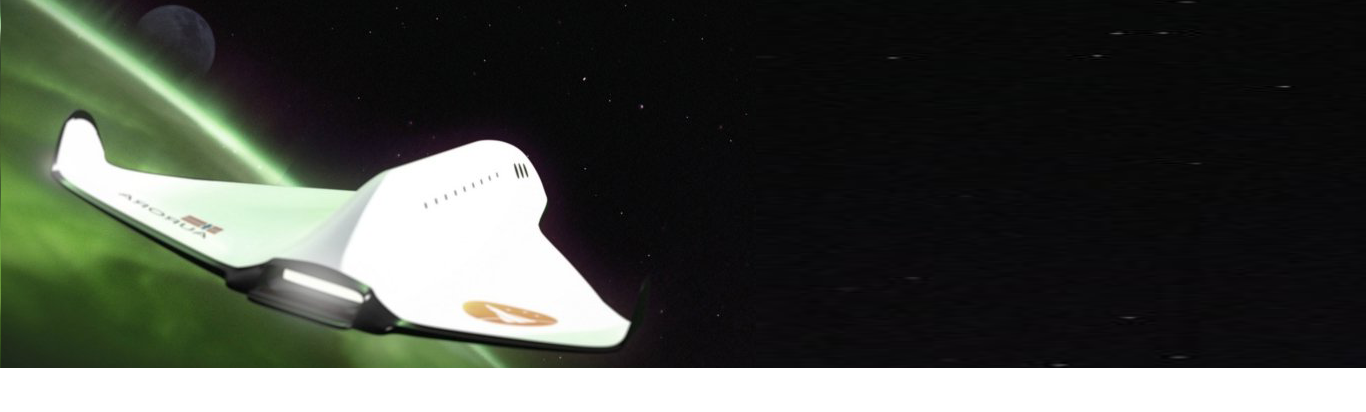
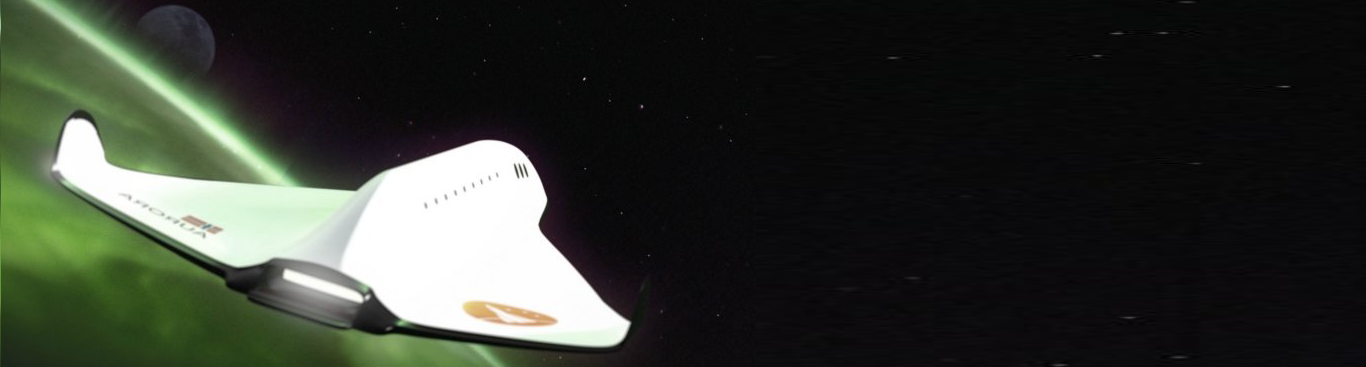
uploading new version of spaceship aurora image

Changed region(s): [[0.0, 0.0599, 1.0, 1.0]]

diff --git a/index.html b/index.html
@@ -135,9 +135,7 @@
 				</script>
 			</div>
 		</section>
-		
-		<div class="sectionTransition parallax-window" data-parallax="scroll" data-image-src="res/img/iss_config_2011.png"></div>
-		
+			
 		<section class="sectionContainer inviewTrigger generalInfo parallax-window" data-parallax="scroll" data-image-src="res/img/soyuz.jpg">
 			<div class="sectionAnchor" id="generellInfo"></div>
 			<main class="sectionContent">

diff --git a/res/css/main.css b/res/css/main.css
@@ -258,7 +258,7 @@ body > .sectionTransition {
 }
 
 .adContainer.spaceShipAurora {
-	background-image: url("http://romportalen.no/res/img/Aurora.png");
+	background-image: url("http://romportalen.no/res/img/Aurora_c82.jpg");
 }
 
 .adContainer.spaceShipAurora img {
